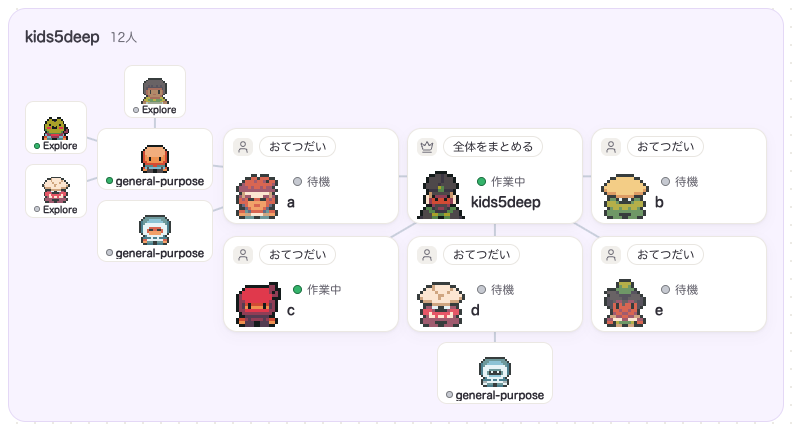
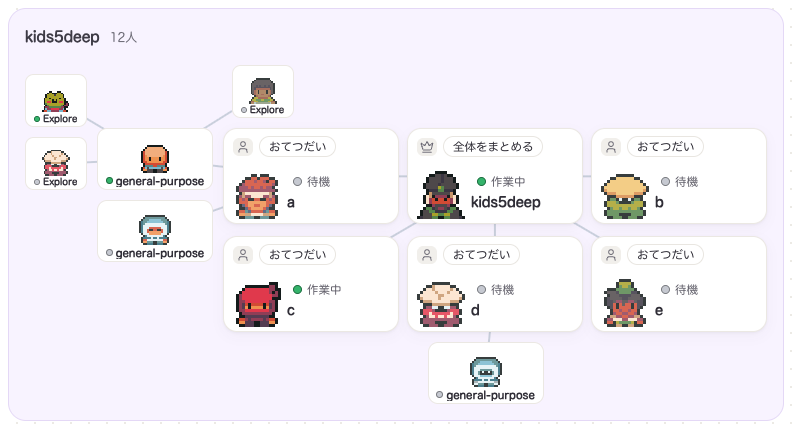
兄弟ごとに、詰めるか親の周りの円に並べるかを選び、詰め切れない枝はその場で扇形に置き換える。左右の偏りを比べて対称に寄せる

diff --git a/src/layout/layout.ts b/src/layout/layout.ts
@@ -298,48 +298,68 @@ function packClone(st: PackState): PackState {
 const packArea = (st: PackState) => q2((st.maxX - st.minX + FRAME.w) * (st.maxY - st.minY + FRAME.h));
 
 /**
- * c を置ける位置を、良い順に最大 limit 個返す。良さは、置いた後の世帯の枠の面積、s、親からの紐の長さ、鏡像の向き、座標の順で比べる。
+ * n を置けるか。measure と同じ判定で、置いた分だけを見る。
+ * - ほかの箱と、縦か横に gap 以上離れる（measure の重なりは接していても通るので、置くときに余白を課す）
+ * - 親からの紐が、ほかの箱（余白の半分だけ膨らませる）を通らない。既にある紐が、新しい箱を通らない
+ * - 親からの紐が、既にある紐と交わらない。同じ世代を角度の順に並べたとき、枝が混ざらない
+ */
+function packFits(st: PackState, n: Placed, gap: number): boolean {
+  const p = st.byId.get(n.parent!)!;
+  const margin = gap / 2;
+  if (st.out.some((b) => Math.abs(b.x - n.x) < (b.w + n.w) / 2 + gap - EPS && Math.abs(b.y - n.y) < (b.h + n.h) / 2 + gap - EPS)) return false;
+  if (st.out.some((b) => b !== p && segHitsRect(p, n, b, margin))) return false;
+  if (st.edges.some(([a, b]) => segHitsRect(a, b, n, margin))) return false;
+  if (st.edges.some(([a, b]) => a !== p && b !== p && segCross(p, n, a, b))) return false;
+  return !interleaves([...st.out.filter((x) => x.depth === n.depth), n]);
+}
+
+/**
+ * c を置ける位置を、良い順に最大 limit 個返す。良さは、置いた後の世帯の枠の面積、s、兄弟の左右の偏り、親からの紐の長さ、鏡像の向き、座標の順で比べる。
  * 候補の座標は、親の近くの箱の縁に接する位置、縁をそろえる位置、親を中心に半分の幅ずつずらした位置の組み合わせから作る。
  * 親の近くで見つからなければ、範囲を広げてもう一度探す。
  */
-function packCandidates(st: PackState, c: LNode, base: number, side: number, gap: number, limit: number): Placed[] {
+function packCandidates(st: PackState, c: LNode, base: number, side: number, gap: number, limit: number, ring?: number): Placed[] {
   const p = st.byId.get(c.parent!)!;
   const depth = p.depth + 1;
-  const margin = gap / 2;
   const found: Placed[] = [];
   let checked = 0;
-  for (const reach of [1.5, 3, 5]) {
-    const rx = p.w / 2 + reach * (c.w + gap), ry = p.h / 2 + reach * (c.h + gap);
-    const near = st.out.filter((b) => Math.abs(b.x - p.x) <= rx + b.w / 2 && Math.abs(b.y - p.y) <= ry + b.h / 2);
-    const xs = new Set<number>(), ys = new Set<number>();
-    for (const b of near) {
-      for (const v of [b.x, b.x - b.w / 2 - gap - c.w / 2, b.x + b.w / 2 + gap + c.w / 2, b.x - b.w / 2 + c.w / 2, b.x + b.w / 2 - c.w / 2]) if (Math.abs(v - p.x) <= rx) xs.add(q2(v));
-      for (const v of [b.y, b.y - b.h / 2 - gap - c.h / 2, b.y + b.h / 2 + gap + c.h / 2, b.y - b.h / 2 + c.h / 2, b.y + b.h / 2 - c.h / 2]) if (Math.abs(v - p.y) <= ry) ys.add(q2(v));
+  // 兄弟の左右の偏り（親の中心からの x の差の合計）。面積と s が同じなら、偏りが小さくなる位置を選び、左右対称に近づける
+  const bal0 = st.out.reduce((a, x) => (x.parent === p.id ? a + x.x - p.x : a), 0);
+  // ring を渡すと、親の中心から半径 ring の円の上を PACK_RING_STEP ずつ回った位置だけを候補にする
+  for (const reach of ring === undefined ? [1.5, 3, 5] : [0]) {
+    const pts: [number, number][] = [];
+    if (ring !== undefined) {
+      for (let j = 0; j * PACK_RING_STEP < 2 * Math.PI - 1e-9; j++) pts.push([q2(p.x + ring * Math.sin(j * PACK_RING_STEP)), q2(p.y + ring * Math.cos(j * PACK_RING_STEP))]);
+    } else {
+      const rx = p.w / 2 + reach * (c.w + gap), ry = p.h / 2 + reach * (c.h + gap);
+      const near = st.out.filter((b) => Math.abs(b.x - p.x) <= rx + b.w / 2 && Math.abs(b.y - p.y) <= ry + b.h / 2);
+      const xs = new Set<number>(), ys = new Set<number>();
+      for (const b of near) {
+        for (const v of [b.x, b.x - b.w / 2 - gap - c.w / 2, b.x + b.w / 2 + gap + c.w / 2, b.x - b.w / 2 + c.w / 2, b.x + b.w / 2 - c.w / 2]) if (Math.abs(v - p.x) <= rx) xs.add(q2(v));
+        for (const v of [b.y, b.y - b.h / 2 - gap - c.h / 2, b.y + b.h / 2 + gap + c.h / 2, b.y - b.h / 2 + c.h / 2, b.y + b.h / 2 - c.h / 2]) if (Math.abs(v - p.y) <= ry) ys.add(q2(v));
+      }
+      for (let k = 1; k <= 2 * reach; k++) {
+        xs.add(q2(p.x - (k * (c.w + gap)) / 2)); xs.add(q2(p.x + (k * (c.w + gap)) / 2));
+        ys.add(q2(p.y - (k * (c.h + gap)) / 2)); ys.add(q2(p.y + (k * (c.h + gap)) / 2));
+      }
+      for (const x of xs) for (const y of ys) pts.push([x, y]);
     }
-    for (let k = 1; k <= 2 * reach; k++) {
-      xs.add(q2(p.x - (k * (c.w + gap)) / 2)); xs.add(q2(p.x + (k * (c.w + gap)) / 2));
-      ys.add(q2(p.y - (k * (c.h + gap)) / 2)); ys.add(q2(p.y + (k * (c.h + gap)) / 2));
-    }
-    const cands: { x: number; y: number; area: number; s: number; len: number; turn?: number }[] = [];
-    for (const x of xs) for (const y of ys) {
+    const cands: { x: number; y: number; area: number; s: number; bal: number; len: number; turn?: number }[] = [];
+    for (const [x, y] of pts) {
       // 親の箱に重なる位置は、検査の前に落とす
       if (Math.abs(x - p.x) < (p.w + c.w) / 2 + gap - EPS && Math.abs(y - p.y) < (p.h + c.h) / 2 + gap - EPS) continue;
       const w = Math.max(st.maxX, x + c.w / 2) - Math.min(st.minX, x - c.w / 2);
       const h = Math.max(st.maxY, y + c.h / 2) - Math.min(st.minY, y - c.h / 2);
-      cands.push({ x, y, area: q2((w + FRAME.w) * (h + FRAME.h)), s: q2(Math.max(w / LAYOUT.view.w, h / LAYOUT.view.h) * 1000), len: q2(Math.hypot(x - p.x, y - p.y)) });
+      cands.push({ x, y, area: q2((w + FRAME.w) * (h + FRAME.h)), s: q2(Math.max(w / LAYOUT.view.w, h / LAYOUT.view.h) * 1000), bal: q2(Math.abs(bal0 + x - p.x)), len: q2(Math.hypot(x - p.x, y - p.y)) });
     }
     // 鏡像の向きは、面積、s、紐の長さが同じときだけ要るので、そのときに出す
     const turn = (k: (typeof cands)[number]) => (k.turn ??= q2((unwrapAround(Math.atan2(k.x, k.y), base) - base) * side));
-    cands.sort((a, b) => a.area - b.area || a.s - b.s || a.len - b.len || turn(a) - turn(b) || a.x * side - b.x * side || a.y - b.y);
+    cands.sort((a, b) => a.area - b.area || a.s - b.s || a.bal - b.bal || a.len - b.len || turn(a) - turn(b) || a.x * side - b.x * side || a.y - b.y);
     for (const k of cands) {
       // 調べる数に上限を置く。良い順に並べてあるので、上限より後ろの位置は面積が大きく、選ばれても扇形の置き方に負けやすい
       if (++checked > PACK_MAX_CHECK) return found;
       const n: Placed = { id: c.id, parent: p.id, depth, x: k.x, y: k.y, w: c.w, h: c.h, angle: unwrapAround(Math.atan2(k.x, k.y), base) };
-      if (st.out.some((b) => Math.abs(b.x - n.x) < (b.w + n.w) / 2 + gap - EPS && Math.abs(b.y - n.y) < (b.h + n.h) / 2 + gap - EPS)) continue;
-      if (st.out.some((b) => b !== p && segHitsRect(p, n, b, margin))) continue;
-      if (st.edges.some(([a, b]) => segHitsRect(a, b, n, margin))) continue;
-      if (st.edges.some(([a, b]) => a !== p && b !== p && segCross(p, n, a, b))) continue;
-      if (interleaves([...st.out.filter((x) => x.depth === depth), n])) continue;
+      if (!packFits(st, n, gap)) continue;
       found.push(n);
       if (found.length >= limit) return found;
     }
@@ -349,79 +369,105 @@ function packCandidates(st: PackState, c: LNode, base: number, side: number, gap
 }
 
 /** 先読みで、兄弟の1人目の位置を試す数 */
-const PACK_LOOKAHEAD = 6;
+const PACK_LOOKAHEAD = 3;
 /** 1人の置き場所を探すときに検査する位置の数の上限。layoutOf は描画の中で同期に呼ばれるので、置けない枝で時間を使い切らない */
 const PACK_MAX_CHECK = 200;
+/** 兄弟を親の周りの円の上に並べるときの、角度の刻み（3度）と、試す半径の数 */
+const PACK_RING_STEP = Math.PI / 60;
+const PACK_RINGS = 10;
 
 /**
  * 子1〜8人の世帯で、孫より下を、親の周りの空いた所に詰めて置く（2026-11-26、docs/design/geometric-layout.md の「孫を詰めて置く」）。
- * 子は slots の位置に置き、孫より下を order の順に1人ずつ、packCandidates の一番良い位置に置く。
- * 置ける位置は、次をすべて満たすもの。measure と同じ判定で、置いた分だけを見る。
- * - ほかの箱と、縦か横に gap 以上離れる（measure の重なりは接していても通るので、置くときに余白を課す）
- * - 親からの紐が、ほかの箱（余白の半分だけ膨らませる）を通らない。既にある紐が、新しい箱を通らない
- * - 親からの紐が、既にある紐と交わらない。同じ世代を角度の順に並べたとき、枝が混ざらない
- * 1人ずつ一番良い位置を選ぶと、兄弟の1人目が親の真下を取り、2人目以降が横に広がることがある。
- * そこで兄弟の1人目だけは、良い順に PACK_LOOKAHEAD 個の位置を試し、それぞれで残りの兄弟を置いてみて、
- * 兄弟を置き終えたときの面積（同じなら紐の長さの合計）が一番小さい位置を選ぶ。
+ * 子は slots の位置に置き、孫より下を、同じ親の兄弟ごとにまとめて置く。兄弟の置き方は次の2通りを試し、
+ * 兄弟を置き終えたときの世帯の枠の面積（同じなら兄弟の左右の偏り、紐の長さの合計の順）が一番小さいものを選ぶ。
+ * - 詰める: 1人ずつ、packCandidates の一番良い位置に置く。1人目だけは良い順に PACK_LOOKAHEAD 個の位置を試し、それぞれで残りを置いてみる。
+ *   1人ずつ一番良い位置を選ぶと、1人目が親の真下を取り、2人目以降が横に広がることがあるためである。
+ * - 円に並べる: 親の中心から同じ半径の円の上に、1人ずつ一番良い位置を選んで置く。半径は小さいほうから PACK_RINGS 通り試し、2つ置けたら止める。
+ *   親のすぐ周りを埋めると、外側の孫への紐が内側の孫の箱を通って置けなくなる。同じ半径に並べれば、紐はほかの兄弟の箱を通りにくい。
+ * 置ける位置は packFits で決める。
  * fanned に入れた枝（子の番号）は詰めずに、扇形の置き方 fan（solveGrid の結果）の座標に置き、ほかの枝をその周りに詰める。
- * 誰かを置けなかったら、その枝の番号を failed で返す。呼ぶ側はその枝を fanned に足してやり直す。
- * order は "bfs"（孫を全員置いてからひ孫）か "dfs"（孫1人ごとに、その下を続けて置く）。
+ * どちらでも置けない兄弟があったら、その枝を fan の座標に置き換え、今の箱と紐に収まればそのまま続ける。
+ * 収まらなければ、その枝の番号を failed で返す。呼ぶ側はその枝を fanned に足してやり直す。
+ * order は "bfs"（孫の兄弟を全部置いてからひ孫の兄弟）か "dfs"（孫の兄弟を置くごとに、その下を続けて置く）。
  * 角度（angle）は、根から見た向きを、その枝の子の向きから ±π の範囲で表す。measure の枝の混ざりはこの角度の順で数える。
  */
-function packGrid(t: Tree, slots: { x: number; y: number }[], gap: number, order: "bfs" | "dfs", fan: Placed[], fanned: Set<number>, skipFanned = false): { nodes: Placed[] } | { failed: number } {
+function packGrid(t: Tree, slots: { x: number; y: number }[], gap: number, order: "bfs" | "dfs", fan: Placed[], fanned: Set<number>): { nodes: Placed[] } | { failed: number } {
   const ks = t.kids.get(t.root.id) ?? [];
   const r = placedRoot(t);
-  const st: PackState = { out: [], byId: new Map(), edges: [], minX: Infinity, maxX: -Infinity, minY: Infinity, maxY: -Infinity };
+  let st: PackState = { out: [], byId: new Map(), edges: [], minX: Infinity, maxX: -Infinity, minY: Infinity, maxY: -Infinity };
   packAdd(st, r);
   const branchAngle = new Map<string, number>();
   const branchSide = new Map<string, number>();
+  const branchOf = new Map<string, number>();
   ks.forEach((k, i) => {
     const th = Math.atan2(slots[i].x, slots[i].y);
     packAdd(st, { id: k.id, parent: t.root.id, depth: 1, x: slots[i].x, y: slots[i].y, w: k.w, h: k.h, angle: th });
     // 鏡像の向き: 左の列の子の枝は、右の列の子の枝を左右に裏返した選び方をする
     const side = slots[i].x < 0 ? -1 : 1;
-    const walk = (n: LNode) => { branchAngle.set(n.id, th); branchSide.set(n.id, side); for (const c of t.kids.get(n.id) ?? []) walk(c); };
+    const walk = (n: LNode) => { branchAngle.set(n.id, th); branchSide.set(n.id, side); branchOf.set(n.id, i); for (const c of t.kids.get(n.id) ?? []) walk(c); };
     walk(k);
   });
   // 扇形に回した枝は、扇形の置き方（solveGrid）の座標をそのまま置く。親が先に入るよう、深さの順に足す
-  const branchOf = new Map<string, number>();
-  ks.forEach((k, i) => { const walk = (n: LNode) => { branchOf.set(n.id, i); for (const c of t.kids.get(n.id) ?? []) walk(c); }; walk(k); });
-  // skipFanned のときは、扇形に回した枝の孫より下を置かず、先読みもしない（1本だけで詰められるかを安く見る）
-  if (!skipFanned) for (const n of [...fan].filter((x) => x.depth >= 2 && fanned.has(branchOf.get(x.id)!)).sort((a, b) => a.depth - b.depth)) packAdd(st, n);
-  const queue: LNode[] = [];
+  for (const n of fan.filter((x) => x.depth >= 2 && fanned.has(branchOf.get(x.id)!)).sort((a, b) => a.depth - b.depth)) packAdd(st, n);
   const packed = ks.filter((_, i) => !fanned.has(i));
+  // 兄弟をまとめて置く順。親の並び
+  const parents: LNode[] = [];
   if (order === "bfs") {
     let level = packed;
     while (level.length) {
       const next: LNode[] = [];
-      for (const n of level) for (const c of t.kids.get(n.id) ?? []) { queue.push(c); next.push(c); }
+      for (const n of level) { if (t.kids.get(n.id)?.length) parents.push(n); next.push(...(t.kids.get(n.id) ?? [])); }
       level = next;
     }
   } else {
-    const walk = (n: LNode) => { for (const c of t.kids.get(n.id) ?? []) { queue.push(c); walk(c); } };
+    const walk = (n: LNode) => { const cs = t.kids.get(n.id) ?? []; if (cs.length) parents.push(n); for (const c of cs) walk(c); };
     for (const k of packed) walk(k);
   }
-  const best = (s: PackState, c: LNode) => packCandidates(s, c, branchAngle.get(c.id)!, branchSide.get(c.id)!, gap, 1)[0] ?? null;
-  for (const c of queue) {
-    const sibs = t.kids.get(c.parent!)!;
-    let pick: Placed | null = null;
-    if (!skipFanned && sibs.length > 1 && sibs[0] === c) {
-      // 兄弟の1人目: 位置を試し、残りの兄弟を置き終えた面積で比べる
-      let bestScore: [number, number] | null = null;
-      for (const first of packCandidates(st, c, branchAngle.get(c.id)!, branchSide.get(c.id)!, gap, PACK_LOOKAHEAD)) {
-        const trial = packClone(st);
-        packAdd(trial, first);
-        let ok = true;
-        for (const s2 of sibs.slice(1)) { const n = best(trial, s2); if (!n) { ok = false; break; } packAdd(trial, n); }
-        if (!ok) continue;
-        const len = q2(sibs.reduce((a, s2) => { const n = trial.byId.get(s2.id)!; const p = trial.byId.get(s2.parent!)!; return a + Math.hypot(n.x - p.x, n.y - p.y); }, 0));
-        const score: [number, number] = [packArea(trial), len];
-        if (!bestScore || score[0] < bestScore[0] || (score[0] === bestScore[0] && score[1] < bestScore[1])) { bestScore = score; pick = first; }
-      }
+  const cand = (s: PackState, c: LNode, limit: number, ring?: number) => packCandidates(s, c, branchAngle.get(c.id)!, branchSide.get(c.id)!, gap, limit, ring);
+  /** 兄弟を1人ずつ一番良い位置に置く。置けなければ null */
+  const greedy = (s: PackState, sibs: LNode[], ring?: number) => {
+    for (const c of sibs) { const n = cand(s, c, 1, ring)[0]; if (!n) return null; packAdd(s, n); }
+    return s;
+  };
+  // 扇形の座標に置き換えた枝。残りの親の兄弟は置かない
+  const done = new Set<number>();
+  for (const parent of parents) {
+    if (done.has(branchOf.get(parent.id)!)) continue;
+    const sibs = t.kids.get(parent.id)!;
+    const options: PackState[] = [];
+    for (const first of cand(st, sibs[0], sibs.length > 1 ? PACK_LOOKAHEAD : 1)) {
+      const trial = packClone(st);
+      packAdd(trial, first);
+      const done = greedy(trial, sibs.slice(1));
+      if (done) options.push(done);
     }
-    if (!pick) pick = best(st, c);
-    if (!pick) return { failed: branchOf.get(c.id)! };
-    packAdd(st, pick);
+    const p = st.byId.get(parent.id)!;
+    const big = sibs.reduce((a, c) => Math.max(a, c.h), 0);
+    let rings = 0;
+    for (let k = 0; k < PACK_RINGS && rings < 2; k++) {
+      const done = greedy(packClone(st), sibs, p.h / 2 + gap + big / 2 + (k * (big + gap)) / 2);
+      if (done) { options.push(done); rings++; }
+    }
+    if (!options.length) {
+      // この枝を扇形の座標に置き換えて続けられるか見る。置いた詰めの分を外し、扇形の座標が今の箱と紐に収まれば、やり直さずに続ける
+      const i = branchOf.get(parent.id)!;
+      const keep = st.out.filter((x) => x.depth < 2 || branchOf.get(x.id) !== i);
+      const next: PackState = { out: [], byId: new Map(), edges: [], minX: Infinity, maxX: -Infinity, minY: Infinity, maxY: -Infinity };
+      for (const x of keep) packAdd(next, x);
+      let ok = true;
+      for (const x of fan.filter((y) => y.depth >= 2 && branchOf.get(y.id) === i).sort((a, b) => a.depth - b.depth)) {
+        if (!packFits(next, x, gap)) { ok = false; break; }
+        packAdd(next, x);
+      }
+      if (!ok) return { failed: i };
+      st = next;
+      done.add(i);
+      continue;
+    }
+    const len = (s: PackState) => q2(sibs.reduce((a, c) => { const n = s.byId.get(c.id)!; return a + Math.hypot(n.x - p.x, n.y - p.y); }, 0));
+    const bal = (s: PackState) => q2(Math.abs(sibs.reduce((a, c) => a + s.byId.get(c.id)!.x - p.x, 0)));
+    const key = (s: PackState) => [packArea(s), bal(s), len(s)];
+    st = options.reduce((a, b) => { const ka = key(a), kb = key(b); return kb[0] < ka[0] || (kb[0] === ka[0] && (kb[1] < ka[1] || (kb[1] === ka[1] && kb[2] < ka[2]))) ? b : a; });
   }
   return { nodes: st.out };
 }
@@ -457,6 +503,8 @@ function segCross(p1: Placed, p2: Placed, p3: Placed, p4: Placed): boolean {
 function segHitsRect(a: Placed, b: Placed, r: Placed, margin: number): boolean {
   const hw = r.w / 2 + margin, hh = r.h / 2 + margin;
   const x0 = r.x - hw, x1 = r.x + hw, y0 = r.y - hh, y1 = r.y + hh;
+  // 線分の外接矩形が箱から離れていれば通らない（詰めて置くときに何度も呼ぶので、先に安く落とす）
+  if (Math.max(a.x, b.x) < x0 || Math.min(a.x, b.x) > x1 || Math.max(a.y, b.y) < y0 || Math.min(a.y, b.y) > y1) return false;
   let t0 = 0, t1 = 1;
   const dx = b.x - a.x, dy = b.y - a.y;
   const clip = (p: number, q: number) => {
@@ -600,22 +648,11 @@ export function layoutFamily(input: LNode[], opt: LayoutOptions = {}): LayoutRes
     const grid: GridCandidate[] = [];
     const f = solveGrid(t, slots, gap, radialGap, view);
     if (t.byId.size > kidCount + 1) {
-      const alone = new Set<number>();
       // ひ孫がいなければ、孫から先に置く順と枝ごとに置く順は同じなので、bfs だけを試す
       const orders = Math.max(...t.depth.values()) > 2 ? (["bfs", "dfs"] as const) : (["bfs"] as const);
       for (const order of orders) {
         // 詰め切れない枝は扇形に回してやり直す。全部の枝を扇形に回したら、扇形の候補と同じなので止める
         const fanned = new Set<number>();
-        // 1本だけ詰めても置けない枝は、ほかの枝があっても置けないので、最初から扇形に回す（やり直しの回数を減らす）
-        if (order === "bfs") {
-          const kids = t.kids.get(t.root.id)!;
-          kids.forEach((k, i) => {
-            if (!t.kids.get(k.id)?.length) return;
-            const others = new Set(kids.map((_, j) => j).filter((j) => j !== i));
-            if ("failed" in packGrid(t, slots, gap, order, [], others, true)) alone.add(i);
-          });
-        }
-        for (const i of alone) fanned.add(i);
         while (fanned.size < kidCount) {
           const r = packGrid(t, slots, gap, order, f.nodes, fanned);
           if ("nodes" in r) { grid.push({ name: order, nodes: r.nodes, m: measure(r.nodes, view, gap / 2) }); break; }
